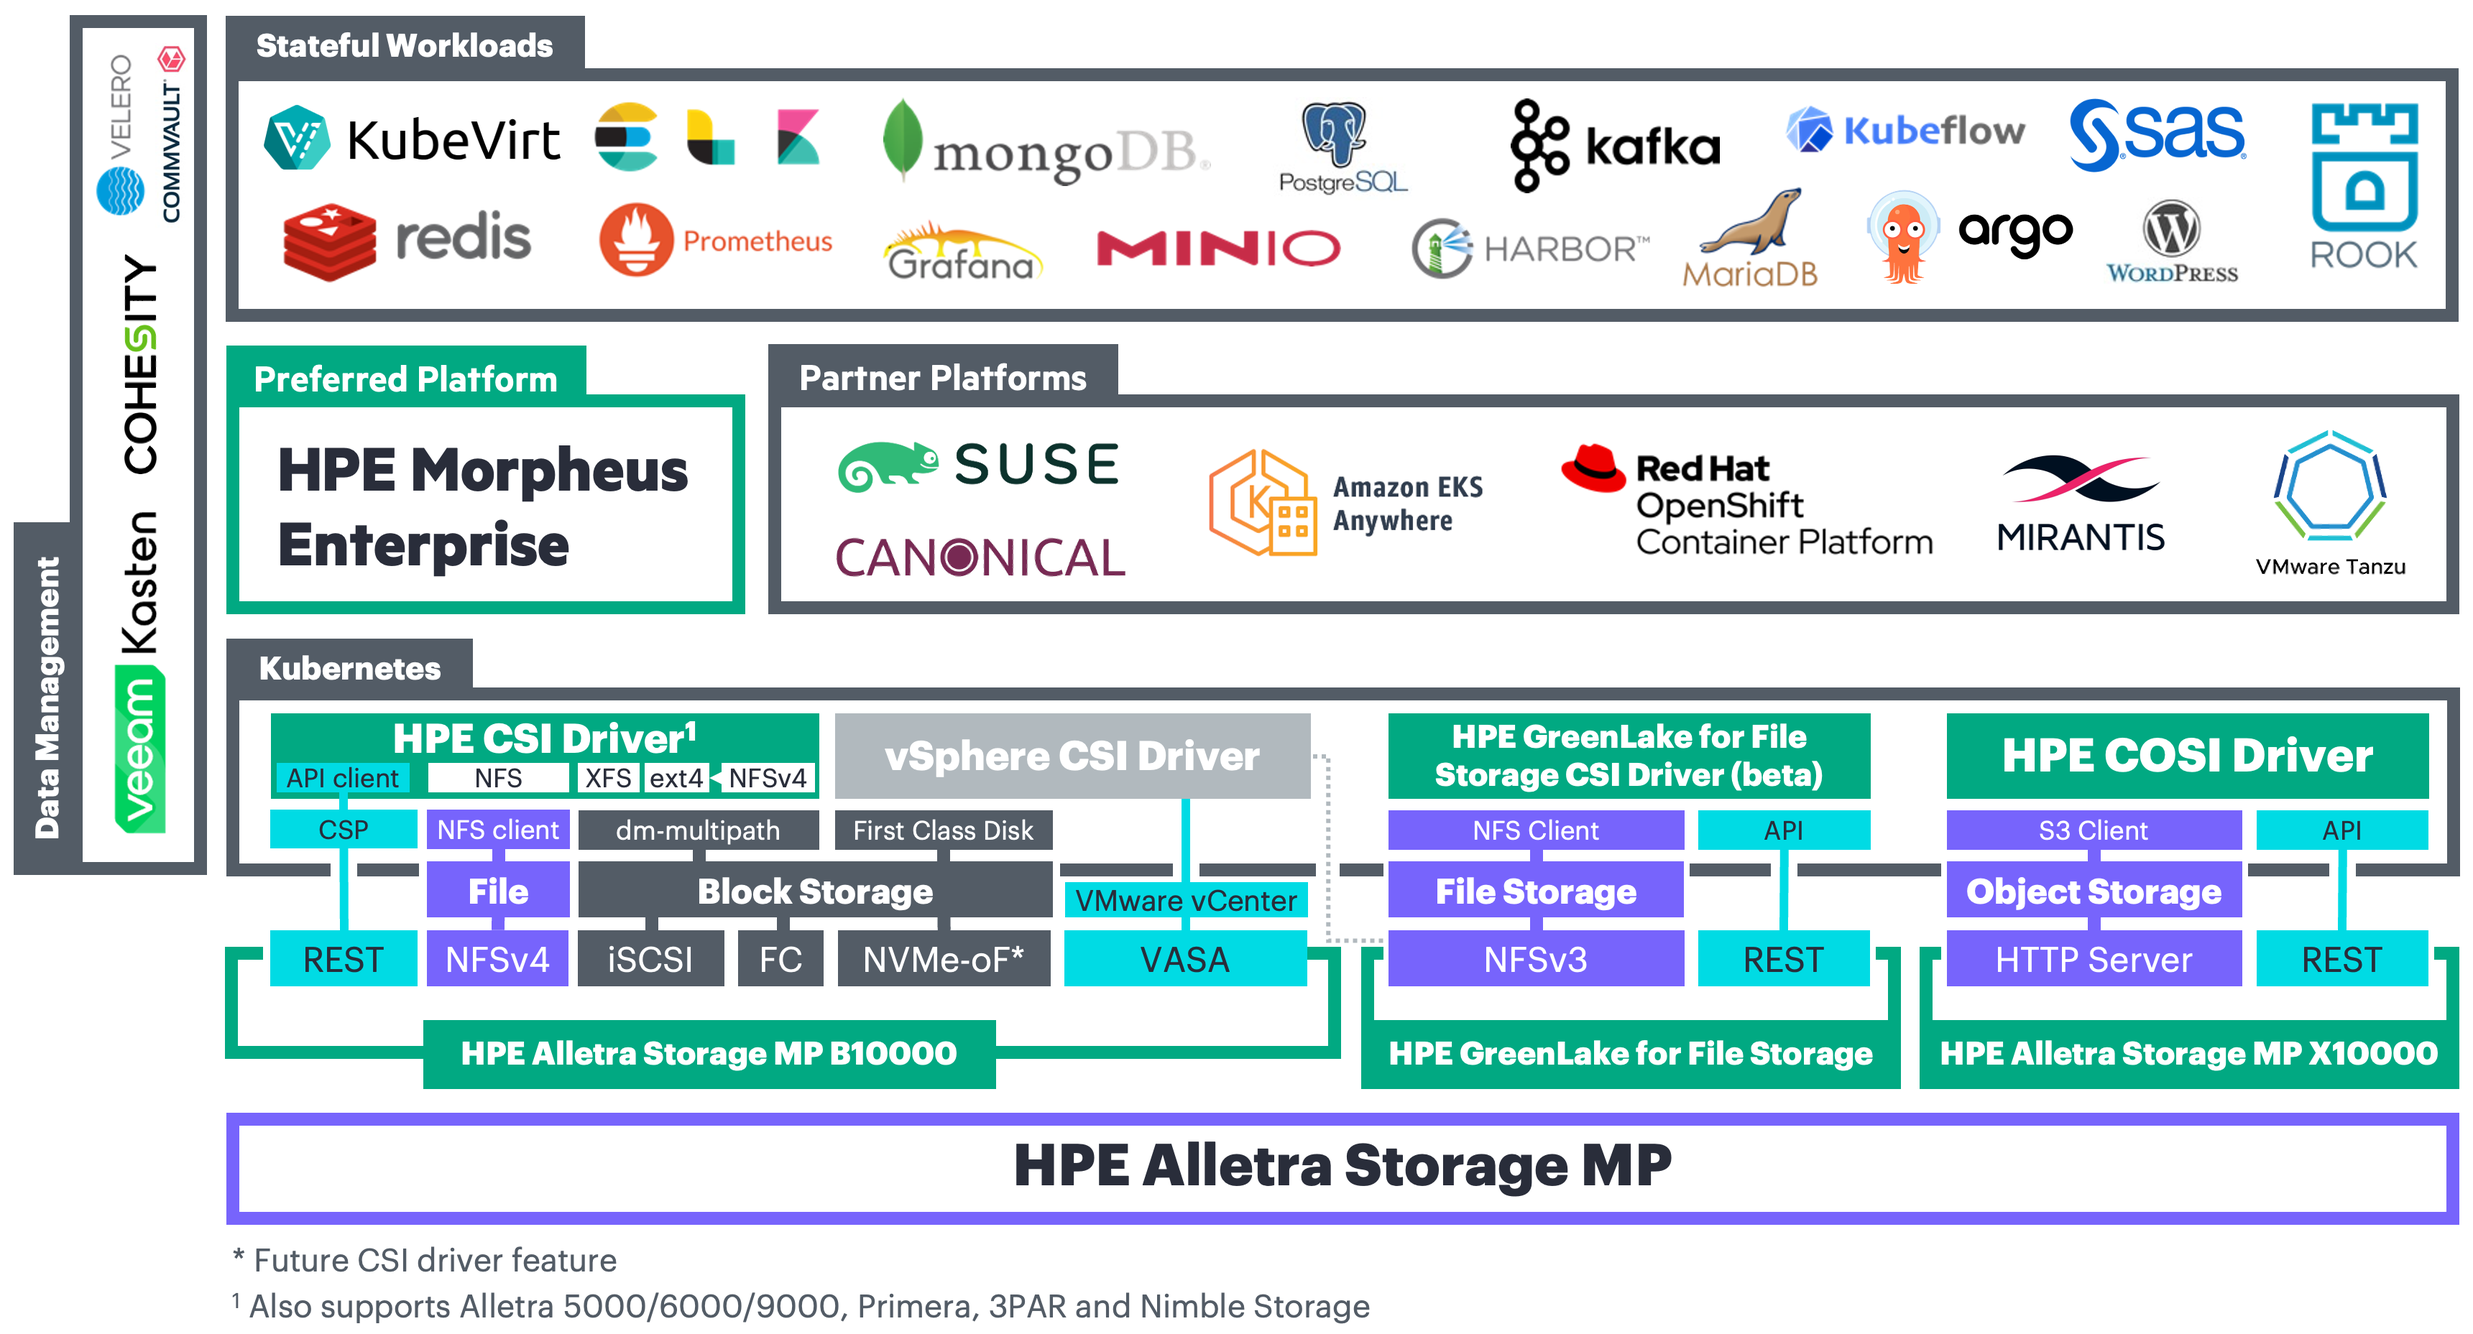
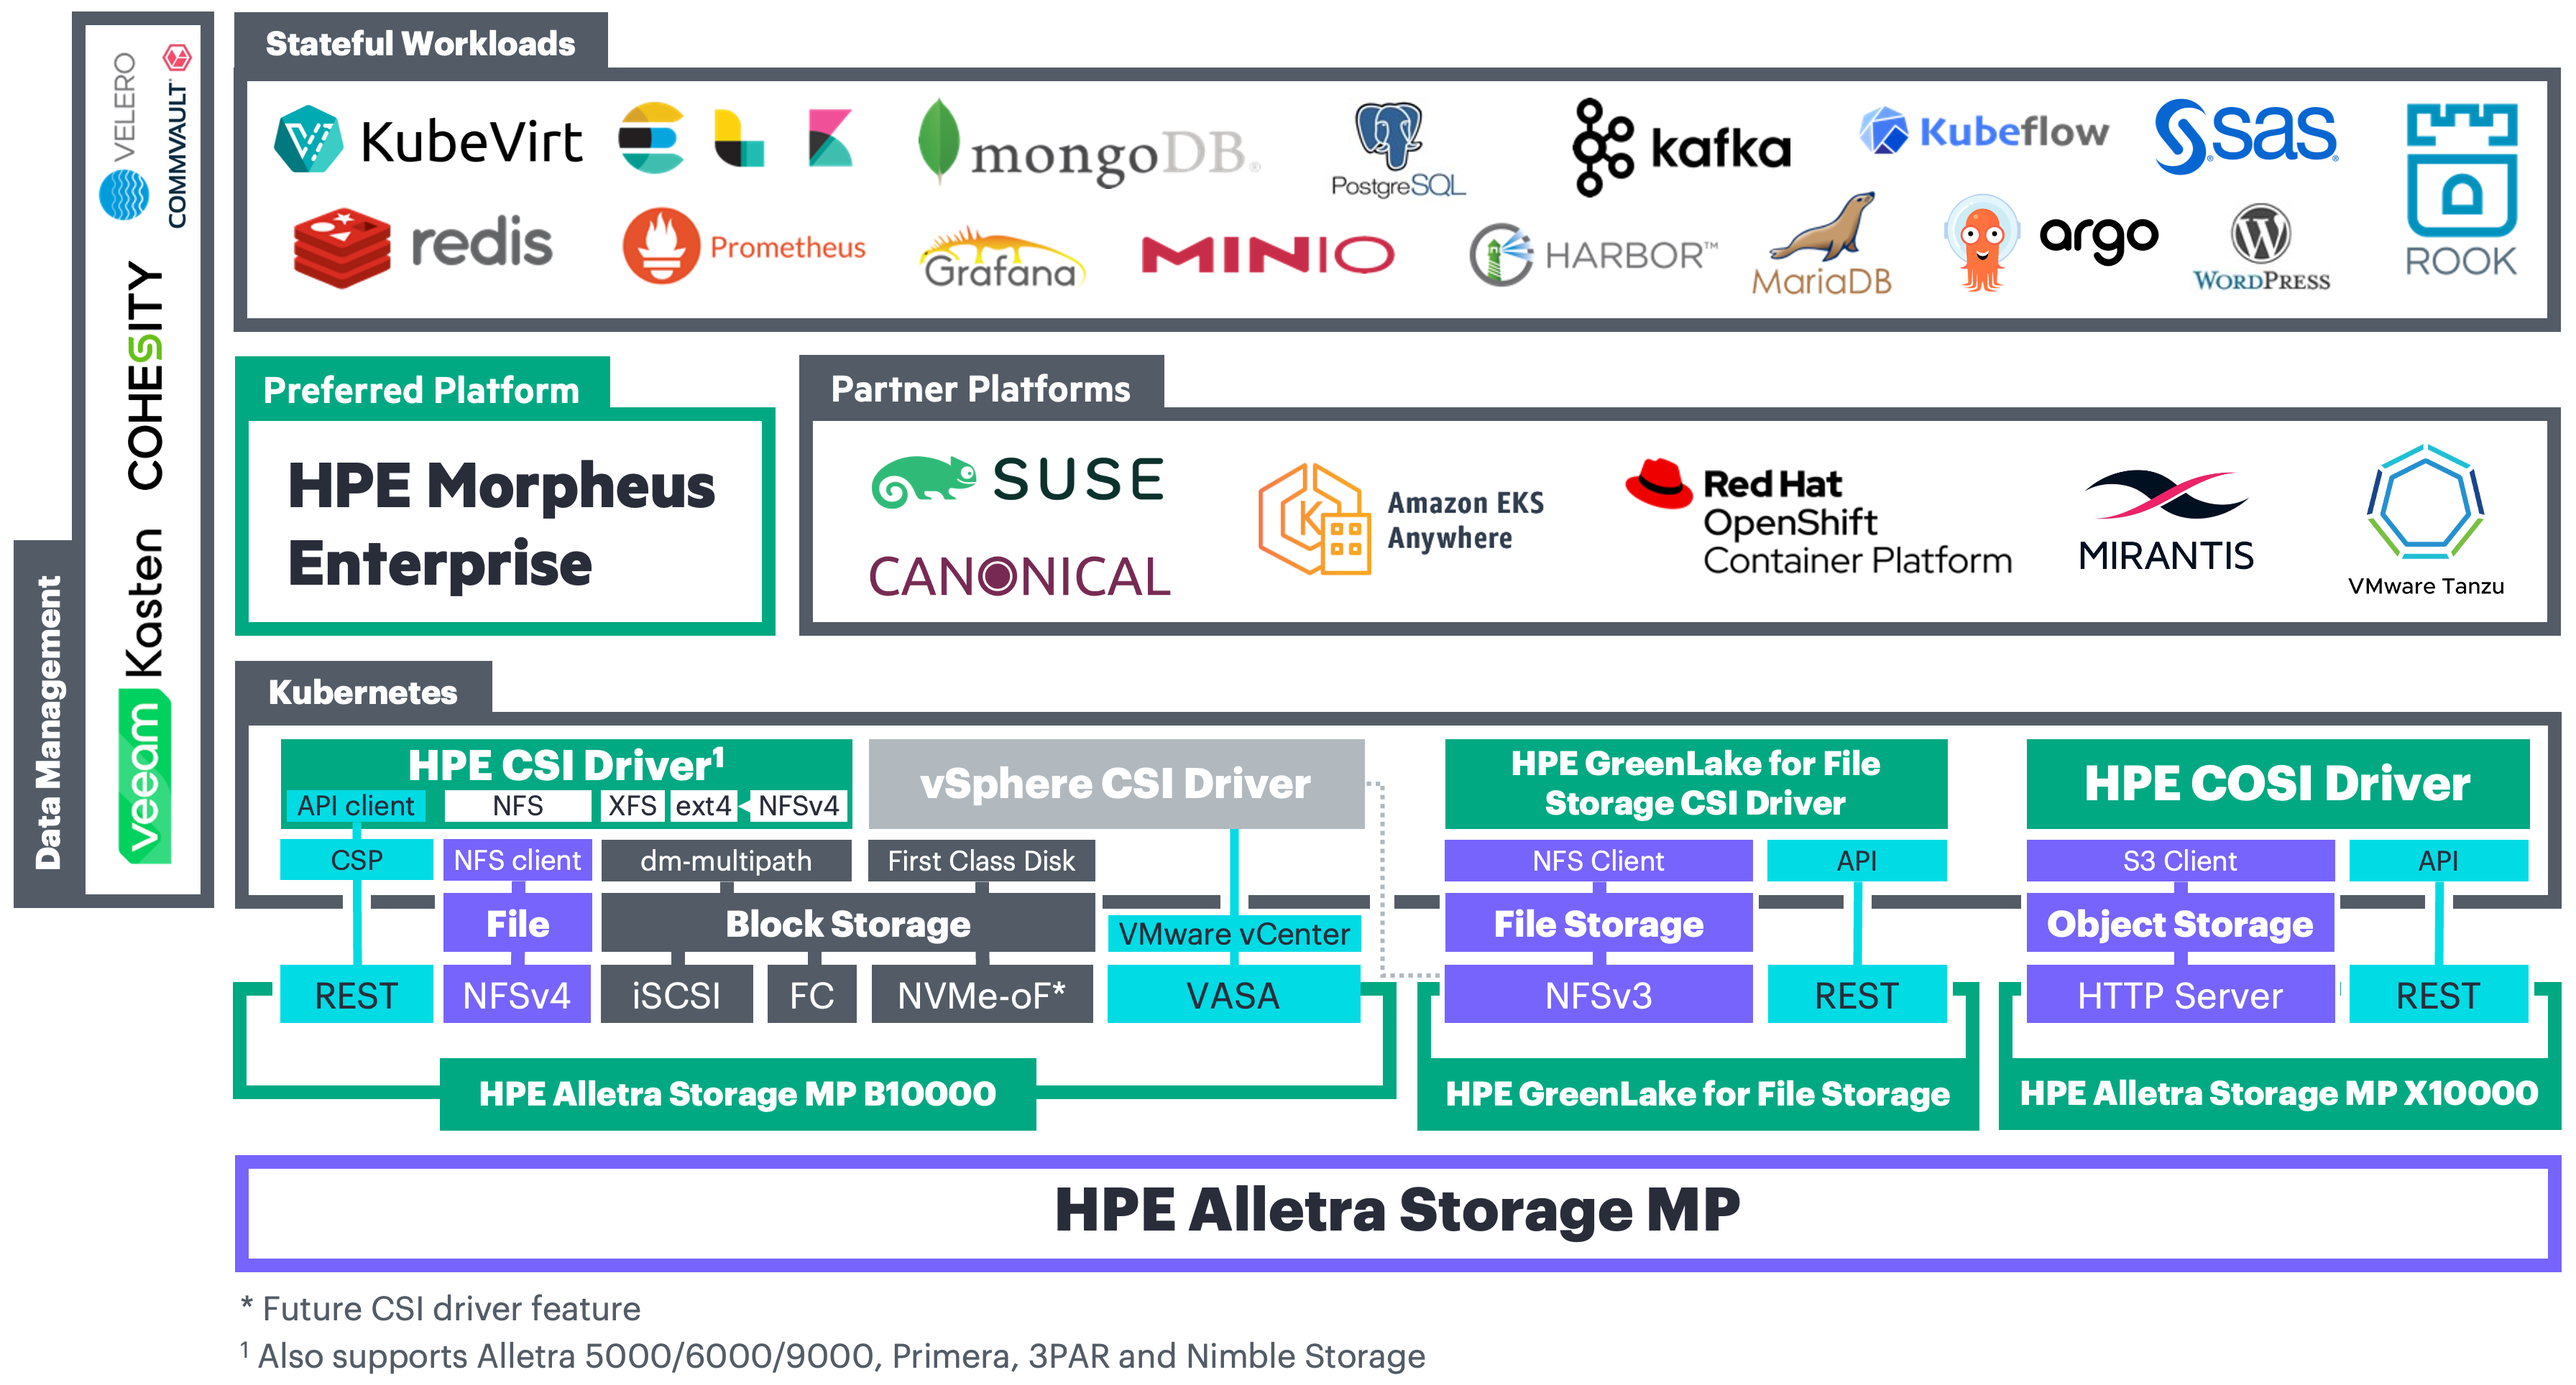
Updates for GL4F 2.6.4 (#266)
* Updates for GL4F 2.6.4

diff --git a/docs/filex_csi_driver/deployment.md b/docs/filex_csi_driver/deployment.md
@@ -20,13 +20,15 @@ The official Helm chart for the HPE GreenLake for File Storage CSI Driver is hos
 The [Operator pattern](https://kubernetes.io/docs/concepts/extend-kubernetes/operator/) is based on the idea that software should be instantiated and run with a set of custom controllers in Kubernetes. It creates a native experience for any software running on Kubernetes.
 
 ### Red Hat OpenShift Container Platform
-
 <!--
 The HPE GreenLake for File Storage CSI Operator is a fully certified Operator for OpenShift. There are a few tweaks needed and there's a separate section for OpenShift.
 
 - See [Red Hat OpenShift](../partners/redhat_openshift/index.md) in the partner ecosystem section
 -->
-During the beta, it's possible to sideload the HPE GreenLake for File Storage CSI Operator using the Operator SDK.
+
+The HPE GreenLake for File Storage CSI Operator is available through the OpenShift console. It's also possible to sideload the HPE GreenLake for File Storage CSI Operator using the Operator SDK.
+
+#### Prerequisites
 
 The installation procedures assumes the "hpe-storage" `Namespace` exists:
 
@@ -46,16 +48,20 @@ oc apply -f {{ config.site_url}}csi_driver/partners/redhat_openshift/examples/sc
 Install the Operator:
 
 ```text
-operator-sdk run bundle --timeout 5m -n hpe-storage quay.io/hpestorage/filex-csi-driver-operator-bundle-ocp:v1.0.0-beta3
+operator-sdk run bundle --timeout 5m -n hpe-storage quay.io/hpestorage/filex-csi-driver-operator-bundle-ocp:v2.6.4
 ```
 
 The next step is to create a `HPEGreenLakeFileCSIDriver` resource, this can also be done in the OpenShift cluster console.
 
-```yaml fct_label="HPE GreenLake for File Storage CSI Operator v1.0.0-beta3"
+```yaml fct_label="HPE GreenLake for File Storage CSI Operator v2.6.4"
+# oc apply -n hpe-storage -f {{ config.site_url }}filex_csi_driver/examples/deployment/hpegreenlakefilecsidriver-v2.6.4-sample.yaml
+{% include "filex_csi_driver/examples/deployment/hpegreenlakefilecsidriver-v2.6.4-sample.yaml" %}```
+
+```yaml fct_label="v1.0.0-beta3"
 # oc apply -n hpe-storage -f {{ config.site_url }}filex_csi_driver/examples/deployment/hpegreenlakefilecsidriver-v1.0.0-beta3-sample.yaml
 {% include "filex_csi_driver/examples/deployment/hpegreenlakefilecsidriver-v1.0.0-beta3-sample.yaml" %}```
 
-For reference, this is how the Operator is uninstalled:
+For reference, this is how the Operator is uninstalled when installed with the Operator SDK:
 
 ```text
 operator-sdk cleanup hpe-filex-csi-operator -n hpe-storage

diff --git a/docs/filex_csi_driver/archive.md b/docs/filex_csi_driver/archive.md
@@ -1,0 +1,52 @@
+# Unsupported Releases
+
+HPE supports up to three historic minor releases on supported versions of upstream and downstream Kubernetes. Releases are kept here for historic purposes.
+
+[TOC]
+
+#### HPE GreenLake for File Storage CSI Driver v1.0.0-beta3
+
+Release highlights:
+
+* Public beta release
+
+<table>
+  <tr>
+    <th>Kubernetes</th>
+    <td>1.28-1.32<sup>1</sup></td>
+  </tr>
+  <tr>
+    <th>Helm Chart</th>
+    <td><a href="https://artifacthub.io/packages/helm/hpe-storage/hpe-greenlake-file-csi-driver/1.0.0-beta3">v1.0.0-beta3</a> on ArtifactHub</td>
+  </tr>
+  <tr>
+    <th>Operators</th>
+    <td>
+     <a href="https://catalog.redhat.com/software/container-stacks/detail/670e9898a6db4f1b3b89ff59">v1.0.0-beta3</a> via OpenShift console
+    </td>
+  </tr>
+  <tr>
+    <th>Worker&nbsp;OS</th>
+    <td>
+      Red Hat Enterprise Linux<sup>2</sup> 7.x, 8.x, 9.x, Red Hat CoreOS 4.14-4.17<br />
+      Ubuntu 16.04, 18.04, 20.04, 22.04, 24.04<br />
+      SUSE Linux Enterprise Server 15 SP4, SP5, SP6 and SLE Micro<sup>4</sup> equivalents
+  </tr>
+  <tr>
+    <th>Platforms<sup>3</sup></th>
+    <td>
+      HPE GreenLake for File Storage MP OS 1.3 or later
+    </td>
+  </tr>
+  <tr>
+    <th>Data&nbsp;Protocols</th>
+    <td>NFSv3 and NFSv4.1</td>
+  </tr>
+</table>
+
+<small>
+ <sup>1</sup> = For HPE Ezmeral Runtime Enterprise, SUSE Rancher, Mirantis Kubernetes Engine and others; Kubernetes clusters must be deployed within the currently supported range of "Worker OS" platforms listed in the above table. Lowest tested and known working version is Kubernetes 1.21.<br />
+ <sup>2</sup> = The HPE CSI Driver will recognize CentOS, AlmaLinux and Rocky Linux as RHEL derives and they are supported by HPE. While RHEL 7 and its derives will work, the host OS have been EOL'd and support is limited.<br/>
+ <sup>3</sup> = Learn about each data platform's team [support commitment](../legal/support/index.md).<br/>
+ <sup>4</sup> = SLE Micro nodes may need to be conformed manually, run `transactional-update -n pkg install nfs-client` and reboot if the CSI node driver doesn't start.<br/>
+</small>

diff --git a/docs/filex_csi_driver/index.md b/docs/filex_csi_driver/index.md
@@ -29,31 +29,31 @@ These are the combinations HPE has tested and can provide official support servi
     The HPE Greenlake for File Storage CSI Driver is currently **NOT** supported by HPE and is considered beta software.
 
 <a name="latest_release"></a>
-#### HPE GreenLake for File Storage CSI Driver v1.0.0-beta3
+#### HPE GreenLake for File Storage CSI Driver v2.6.4
 
 Release highlights:
 
-* Public beta release
+* Initial release
 
 <table>
   <tr>
     <th>Kubernetes</th>
-    <td>1.28-1.32<sup>1</sup></td>
+    <td>1.30-1.34<sup>1</sup></td>
   </tr>
   <tr>
     <th>Helm Chart</th>
-    <td><a href="https://artifacthub.io/packages/helm/hpe-storage/hpe-greenlake-file-csi-driver/1.0.0-beta3">v1.0.0-beta3</a> on ArtifactHub</td>
+    <td><a href="https://artifacthub.io/packages/helm/hpe-storage/hpe-greenlake-file-csi-driver/2.6.4">v2.6.4</a> on ArtifactHub</td>
   </tr>
   <tr>
     <th>Operators</th>
     <td>
-     <a href="https://catalog.redhat.com/software/container-stacks/detail/670e9898a6db4f1b3b89ff59">v1.0.0-beta3</a> via OpenShift console
+     <a href="https://catalog.redhat.com/software/container-stacks/detail/670e9898a6db4f1b3b89ff59">v2.6.4</a> via OpenShift console
     </td>
   </tr>
   <tr>
     <th>Worker&nbsp;OS</th>
     <td>
-      Red Hat Enterprise Linux<sup>2</sup> 7.x, 8.x, 9.x, Red Hat CoreOS 4.14-4.17<br />
+      Red Hat Enterprise Linux<sup>2</sup> 7.x, 8.x, 9.x, Red Hat CoreOS 4.14-4.20<br />
       Ubuntu 16.04, 18.04, 20.04, 22.04, 24.04<br />
       SUSE Linux Enterprise Server 15 SP4, SP5, SP6 and SLE Micro<sup>4</sup> equivalents
   </tr>
@@ -82,15 +82,11 @@ Release highlights:
  <sup>4</sup> = SLE Micro nodes may need to be conformed manually, run `transactional-update -n pkg install nfs-client` and reboot if the CSI node driver doesn't start.<br/>
 </small>
 
-<!--
-
 #### Release Archive
 
 HPE currently supports up to three minor releases of the HPE CSI Driver for Kubernetes.
 
 * [Unsupported releases](archive.md)
-
--->
 
 ## Known Limitations
 

diff --git a/docs/filex_csi_driver/using.md b/docs/filex_csi_driver/using.md
@@ -41,7 +41,16 @@ kubectl get sts,deploy -A
 
 If no prior CRDs or controllers exist, install the snapshot CRDs and common snapshot controller (once per Kubernetes cluster, independent of any CSI drivers).
 
-```text fct_label="HPE GreenLake for File Storage CSI Driver v1.0.0-beta"
+```text fct_label="HPE GreenLake for File Storage CSI Driver v2.6.4"
+# Kubernetes 1.30-1.34
+git clone https://github.com/kubernetes-csi/external-snapshotter
+cd external-snapshotter
+git checkout tags/v8.4 -b hpe-greenlake-for-file-csi-driver-v2.6.4
+kubectl kustomize client/config/crd | kubectl create -f-
+kubectl -n kube-system kustomize deploy/kubernetes/snapshot-controller | kubectl create -f-
+```
+
+```text fct_label="v1.0.0-beta"
 # Kubernetes 1.28-1.31
 git clone https://github.com/kubernetes-csi/external-snapshotter
 cd external-snapshotter

diff --git a/docs/welcome/index.md b/docs/welcome/index.md
@@ -59,7 +59,7 @@ HPE provide a broad portfolio of storage products that integrate with Kubernetes
    <a href="../csi_driver">HPE CSI Driver for Kubernetes</a><sup>1</sup>
   </td>
   <td>
-   <a href="../filex_csi_driver">HPE GreenLake for File Storage CSI Driver</a><sup>2</sup>
+   <a href="../filex_csi_driver">HPE GreenLake for File Storage CSI Driver</a>
   </td>
   <td>
    <a href="../cosi_driver/">HPE COSI Driver for Kubernetes</a>
@@ -68,7 +68,6 @@ HPE provide a broad portfolio of storage products that integrate with Kubernetes
 </table>
 
 <sup>1</sup> = HPE CSI Driver for Kubernetes also supports Alletra 5000/6000/9000, Primera, 3PAR and Nimble Storage.<br />
-<sup>2</sup> = Currently in beta.
 </small>
 
 !!! tip "Learn more"
